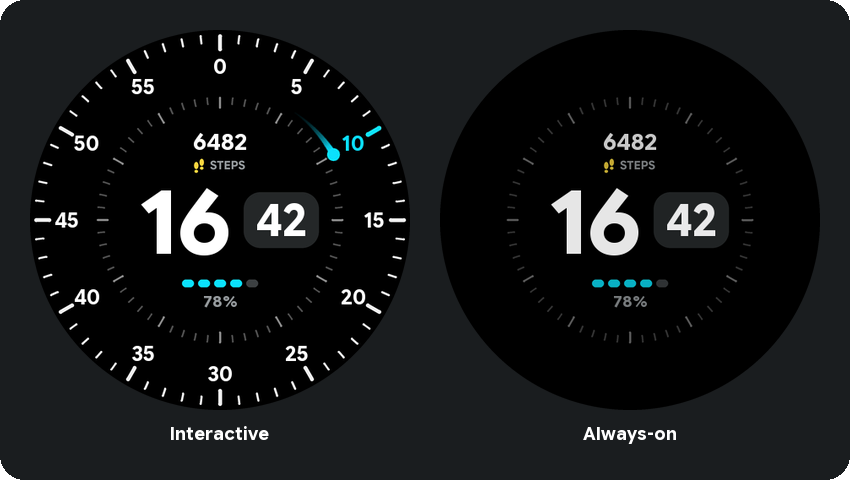
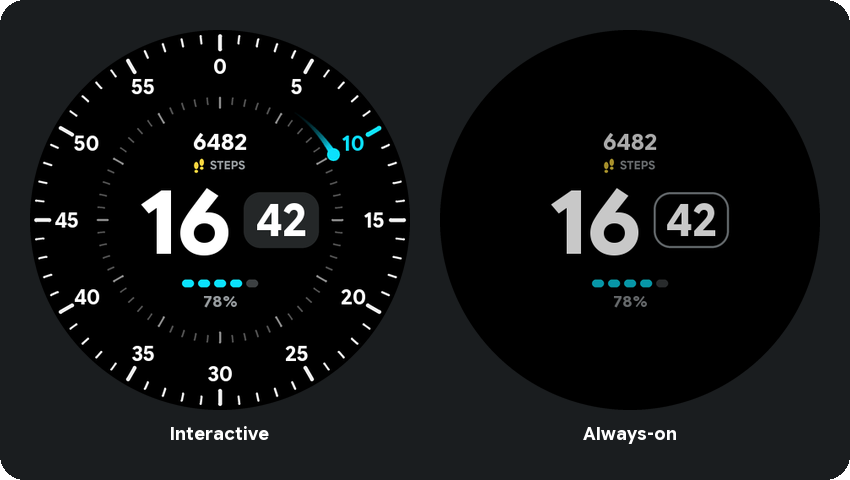
Redesign the always-on display for low power
Always-on now shows only the time, steps and battery. Both rings, the comet
and the lit tick are hidden, the minute pill becomes an outline, and the
text is dimmed (hour/minute 200, steps/battery 170). Rendered mean luminance
drops from 4.22% to 3.33%.

diff --git a/tools/generate.py b/tools/generate.py
@@ -129,7 +129,7 @@ BATTERY_TRACK_COLOR = (60, 64, 66)
 BATTERY_TEXT_COLOR = (150, 155, 158)
 BATTERY_LOW_COLOR = (255, 92, 77)
 BATTERY_LOW_PERCENT = 15
-BATTERY_AMBIENT_ALPHA = 200
+BATTERY_AMBIENT_ALPHA = 170
 PREVIEW_BATTERY = 78
 
 # Steps: the day's count above the time, and under it a footprints icon beside a
@@ -152,7 +152,7 @@ STEPS_TIERS = [                     # (from % of goal, icon colour)
     (75, (11, 225, 253)),           # cyan    nearly there (the face's accent)
     (100, (120, 230, 140)),         # green   goal reached
 ]
-STEPS_AMBIENT_ALPHA = 200
+STEPS_AMBIENT_ALPHA = 170
 PREVIEW_STEPS = (6482, 10000)       # count, goal
 
 SS = 4                              # supersampling factor for antialiasing
@@ -188,8 +188,14 @@ SWEEP_FREQUENCY = "SYNC_TO_DEVICE"
 # it would sit frozen on a stale second. The outer ring goes with it: without the
 # comet it carries no information, and dropping it keeps the always-on display
 # calm and low-burn. The inner ring, hour and minute stay.
-AMBIENT_DIAL_ALPHA = 160
-AMBIENT_TEXT_ALPHA = 230
+#
+# Always-on is built for low power: no rings and nothing that moves. Only the
+# time, steps and battery remain, dimmed, and the minute pill is an outline rather
+# than a solid fill, so the panel lights as few pixels as possible.
+AMBIENT_DIAL_ALPHA = 0              # inner ring: hidden in ambient
+AMBIENT_TEXT_ALPHA = 200
+AMBIENT_PILL_STROKE = 2.5
+AMBIENT_PILL_COLOR = (96, 101, 104)
 
 # Burn-in protection. Measured on this watch, nothing shifts the face in ambient:
 # two AOD frames 75s apart (which differ elsewhere, so the capture was live) put
@@ -359,6 +365,18 @@ def draw_pill(path: str) -> tuple[int, int, int, int]:
     ImageDraw.Draw(img).rounded_rectangle(
         [PILL_LEFT * SS, PILL_TOP * SS, PILL_RIGHT * SS, PILL_BOTTOM * SS],
         radius=PILL_RADIUS * SS, fill=PILL_COLOR,
+    )
+    return save_cropped(img, path)
+
+
+def draw_pill_outline(path: str) -> tuple[int, int, int, int]:
+    """The ambient minute pill: the same rounded rectangle, outline only. The
+    stroke sits inside the filled pill's edge, so the shape doesn't grow."""
+    img = Image.new("RGBA", (SIZE * SS, SIZE * SS), (0, 0, 0, 0))
+    ImageDraw.Draw(img).rounded_rectangle(
+        [PILL_LEFT * SS, PILL_TOP * SS, PILL_RIGHT * SS, PILL_BOTTOM * SS],
+        radius=PILL_RADIUS * SS, outline=AMBIENT_PILL_COLOR + (255,),
+        width=round(AMBIENT_PILL_STROKE * SS),
     )
     return save_cropped(img, path)
 
@@ -744,7 +762,8 @@ def steps_xml(icon_boxes: list[tuple[int, int, int, int]], label_box: tuple[int,
 def build_xml(pill_box: tuple[int, int, int, int], comet_box: tuple[int, int, int, int],
               lit_boxes: dict[str, tuple[int, int, int, int]],
               battery_origin: tuple[int, int],
-              steps_boxes: tuple[list, tuple] | None = None) -> str:
+              steps_boxes: tuple[list, tuple] | None,
+              pill_outline_box: tuple[int, int, int, int]) -> str:
     hour_box_w = 220
     return f"""<?xml version="1.0" encoding="utf-8"?>
 <!--
@@ -792,7 +811,7 @@ def build_xml(pill_box: tuple[int, int, int, int], comet_box: tuple[int, int, in
       </PartImage>
     </Group>
 {drift_open()}
-    <!-- Inner ring: static grey ticks, kept (dimmed) in ambient. -->
+    <!-- Inner ring: static grey ticks. Hidden in ambient to save power. -->
     <Group name="inner_ring" x="0" y="0" width="{SIZE}" height="{SIZE}">
       <Variant mode="AMBIENT" target="alpha" value="{AMBIENT_DIAL_ALPHA}" />
 {centred_image("minutes_ticks", "ticks_minutes", MIN_IMG, "      ")}
@@ -812,8 +831,15 @@ def build_xml(pill_box: tuple[int, int, int, int], comet_box: tuple[int, int, in
 
     <PartImage name="pill" x="{pill_box[0]}" y="{pill_box[1]}"
                width="{pill_box[2] - pill_box[0]}" height="{pill_box[3] - pill_box[1]}">
-      <Variant mode="AMBIENT" target="alpha" value="{AMBIENT_TEXT_ALPHA}" />
+      <Variant mode="AMBIENT" target="alpha" value="0" />
       <Image resource="pill" />
+    </PartImage>
+
+    <!-- In ambient the solid pill gives way to an outline of the same shape. -->
+    <PartImage name="pill_outline" x="{pill_outline_box[0]}" y="{pill_outline_box[1]}"
+               width="{pill_outline_box[2] - pill_outline_box[0]}" height="{pill_outline_box[3] - pill_outline_box[1]}" alpha="0">
+      <Variant mode="AMBIENT" target="alpha" value="255" />
+      <Image resource="pill_outline" />
     </PartImage>
 
     <PartText name="minute" x="{round(MINUTE_CX + MINUTE_NUDGE[0]) - 45}" y="{round(MINUTE_CY + MINUTE_NUDGE[1]) - 35}"
@@ -882,6 +908,7 @@ def main() -> None:
               MIN_TICK_MINOR_WIDTH, MIN_TICK_MAJOR_WIDTH,
               MIN_TICK_MINOR_COLOR, MIN_TICK_MAJOR_COLOR)
     pill_box = draw_pill(os.path.join(DRAWABLE, "pill.png"))
+    pill_outline_box = draw_pill_outline(os.path.join(DRAWABLE, "pill_outline.png"))
     comet_box = draw_comet(os.path.join(DRAWABLE, "comet.png"))
     lit_boxes = {
         "tick_lit_major": draw_lit_tick(os.path.join(DRAWABLE, "tick_lit_major.png"),
@@ -906,7 +933,8 @@ def main() -> None:
 
     xml_path = os.path.join(RAW, "watchface.xml")
     with open(xml_path, "w", encoding="utf-8") as f:
-        f.write(build_xml(pill_box, comet_box, lit_boxes, battery_origin, steps_boxes))
+        f.write(build_xml(pill_box, comet_box, lit_boxes, battery_origin, steps_boxes,
+                          pill_outline_box))
     print(f"\nwatchface.xml written to {os.path.relpath(xml_path, HERE)}")
 
 

diff --git a/tools/readme_images.py b/tools/readme_images.py
@@ -74,8 +74,12 @@ def face(hour: int = 16, minute: int = 42, second: int = 10, steps: int = 6482,
         img.alpha_composite(rotated("comet", 6 * second))
 
     off = (g.SIZE - g.MIN_IMG) // 2
-    img.alpha_composite(drawable("ticks_minutes", dial), (off, off))
-    img.alpha_composite(drawable("pill", txt), BOX["pill"][:2])
+    if dial:
+        img.alpha_composite(drawable("ticks_minutes", dial), (off, off))
+    if ambient:
+        img.alpha_composite(drawable("pill_outline"), BOX["pill_outline"][:2])
+    else:
+        img.alpha_composite(drawable("pill"), BOX["pill"][:2])
 
     layer = Image.new("RGBA", img.size, (0, 0, 0, 0))
     d = ImageDraw.Draw(layer)
@@ -107,7 +111,7 @@ def face(hour: int = 16, minute: int = 42, second: int = 10, steps: int = 6482,
         grp.alpha_composite(drawable(name), BOX[f"battery_{s}_track"][:2])
     centred(gd, f"{battery}%", g.CX, g.BATTERY_TEXT_CY, g.BATTERY_TEXT_SIZE,
             (g.BATTERY_LOW_COLOR if low else g.BATTERY_TEXT_COLOR) + (255,))
-    if ambient:
+    if ambient:   # steps and battery share one ambient alpha in this renderer
         grp.putalpha(grp.getchannel("A").point(lambda v: v * g.STEPS_AMBIENT_ALPHA // 255))
     img.alpha_composite(grp)
     return img

diff --git a/README.md b/README.md
@@ -30,7 +30,8 @@ enlarged after testing on the wrist: at the 40mm watch's scale, small text was h
 
 ### Always-on
 
-The comet and outer ring switch off. The inner ring, time, steps and battery stay, dimmed:
+The always-on face is built for low power: no rings and nothing that moves. Only the
+time, steps and battery stay, dimmed, and the minute pill becomes an outline:
 
 ![Interactive and always-on modes side by side](docs/images/modes.png)
 
@@ -271,10 +272,12 @@ be a placeholder".
   Read it again with: `adb shell dumpsys batterystats`, then find the UID of
   `com.samsung.wear.watchface.runtime` via `adb shell pm list packages -U` (it renders the
   face; the `radialclock` package itself is inert and will look idle).
-- **Always-on display.** Ambient keeps the grey inner ring at alpha 160, the hour and
-  minute pill at 230, and the steps and battery at 200. The comet goes dark because ambient refreshes once a minute, so it
-  would sit frozen on a stale second; the outer ring goes with it, since without the comet
-  it carries no information.
+- **Always-on display.** Ambient shows only the hour and minute (alpha 200) and the steps
+  and battery (alpha 170); the solid minute pill swaps for `pill_outline.png`. The comet,
+  both rings and the lit tick are all hidden. That lights about 21% less than the previous
+  ambient face, which kept the inner ring and a solid pill (rendered mean luminance 4.22% →
+  3.33%). Tune `AMBIENT_TEXT_ALPHA`, `STEPS_AMBIENT_ALPHA` and `BATTERY_AMBIENT_ALPHA` in
+  `generate.py`.
 
   The quality bar (WO-P7) is 15% **mean luminance** across the face, not a count of lit
   pixels. With the earlier design the full interactive face measured 4.46% and ambient

diff --git a/HANDOFF.md b/HANDOFF.md
@@ -39,8 +39,10 @@ the 450px canvas; the constants at the top of `tools/generate.py` record it.
 - Font: Google Sans Flex Bold (SIL OFL 1.1). Comfortaa was removed.
 - An invisible WFF `SecondHand` uses `Sweep frequency="SYNC_TO_DEVICE"` to
   request the smoothest cadence the current device can sustain.
-- Ambient keeps the inner ring, hour, minute pill, steps and battery; the
-  comet and outer ring hide.
+- Ambient (redesigned 2026-11-09 for low power) shows only the hour, an
+  outlined minute pill, steps and battery, dimmed. Both rings, the comet and the
+  lit tick hide. The user asked for no rings and no motion in always-on.
+  Not yet verified on the emulator or the watch.
 
 This avoids the prior approach of rotating an entire outer dial and
 counter-rotating 12 live text labels every frame, which looked laggy.
